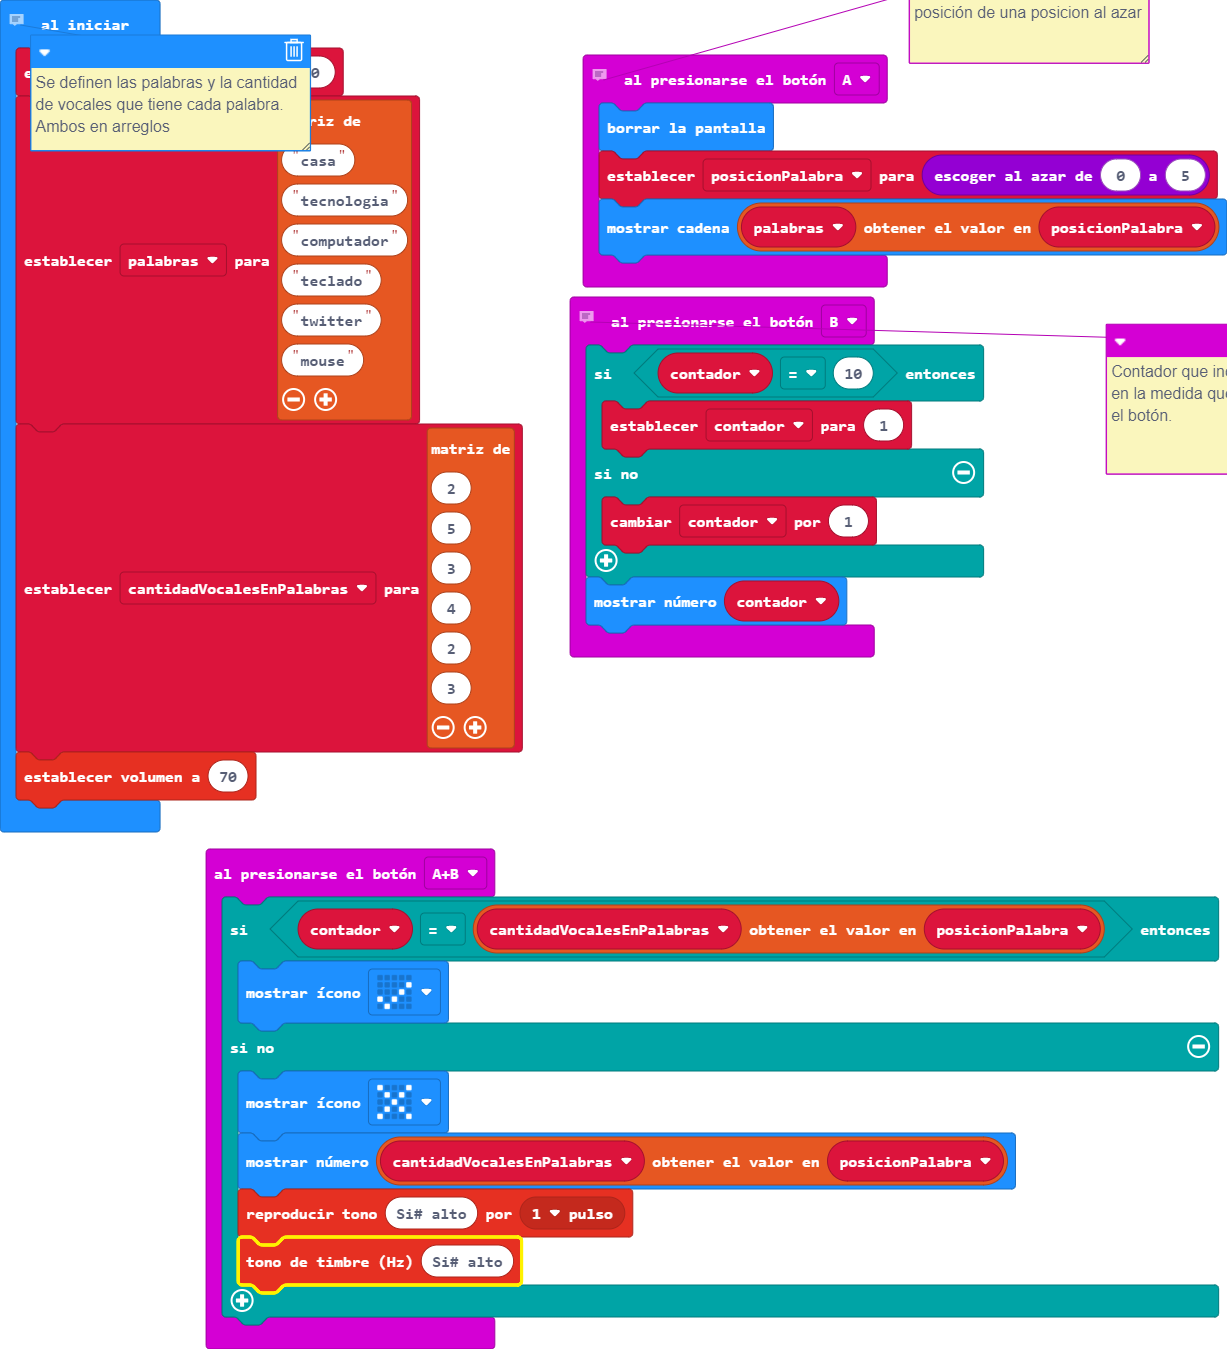
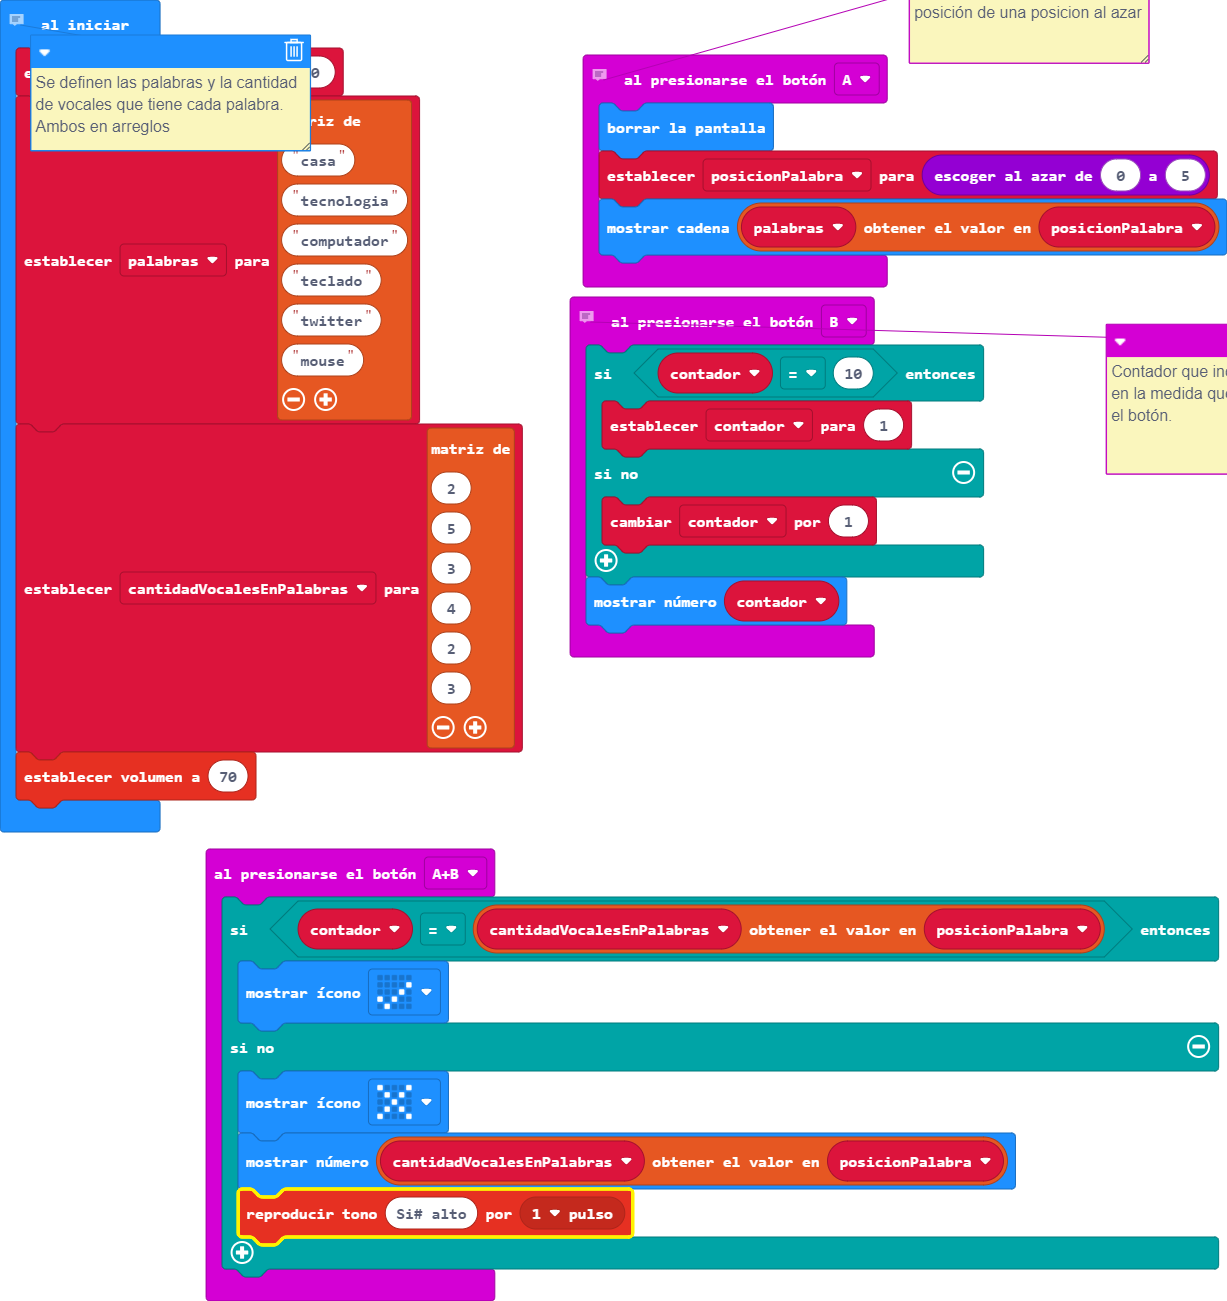
Actualizar main.blocks, main.ts

Changed region(s): [[0.0, 0.0307, 1.0, 0.9839], [0.4645, 0.0307, 1.0, 0.5227]]

diff --git a/main.ts b/main.ts
@@ -11,7 +11,6 @@ input.onButtonPressed(Button.AB, function () {
         basic.showIcon(IconNames.No)
         basic.showNumber(cantidadVocalesEnPalabras[posicionPalabra])
         music.playTone(988, music.beat(BeatFraction.Whole))
-        music.ringTone(988)
     }
 })
 // Contador que incrementa en la medida que presiono el botón.
